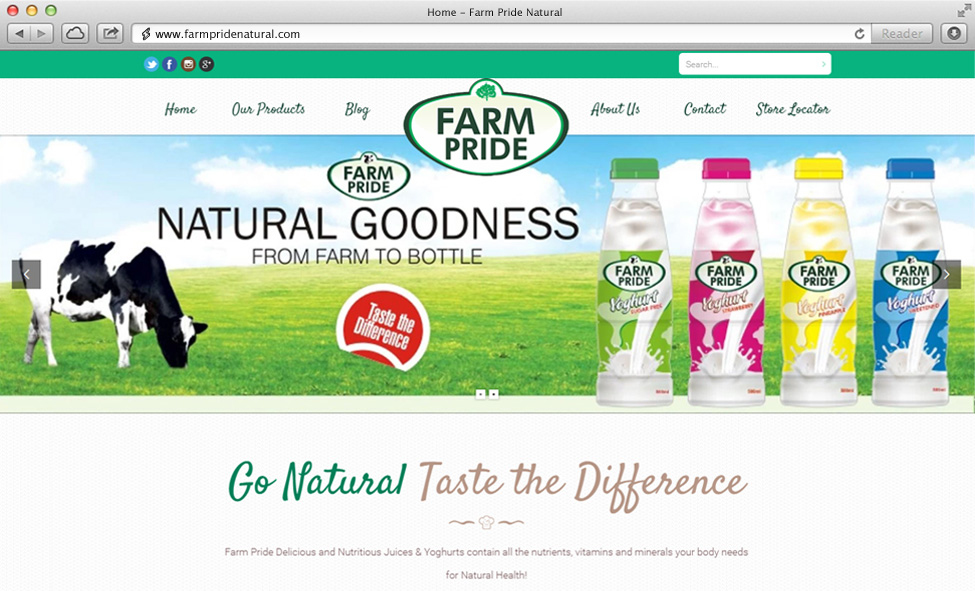
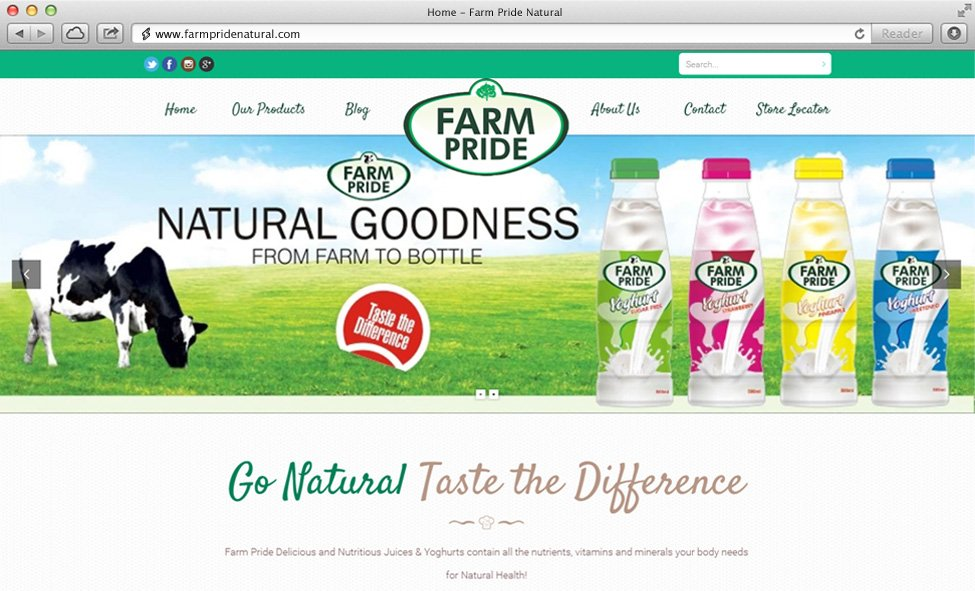
Replace old images with optimized versions

Changed region(s): [[0.0, 0.0609, 1.0, 0.1218], [0.4923, 0.1218, 0.5231, 0.1523], [0.4, 0.2132, 0.4308, 0.2437]]

diff --git a/404.html b/404.html
@@ -5,5 +5,5 @@ layout: default
 <div class="text-center">
   <img src="assets/images/404.gif" alt="404 error message" />
   <h2>Sorry. This page doesn't exist</h2>
-  <h4>You probably ran into one of the pages we removed. Our apologies <br/>Go to our <a href="/">Home Page</a> or <a href="/#contact">Contact Us</a> instead</h4>
+  <h4 style="padding: 16px 0">You probably ran into one of the pages we removed. Our apologies <br/>Go to our <a href="/">Home Page</a> or <a href="/#contact">Contact Us</a> instead</h4>
 </div>
